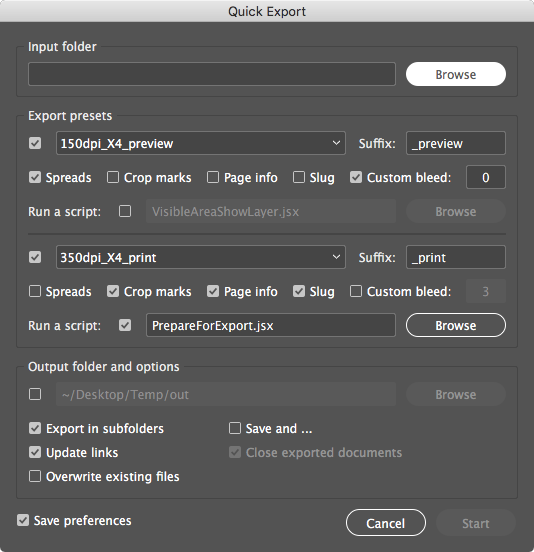
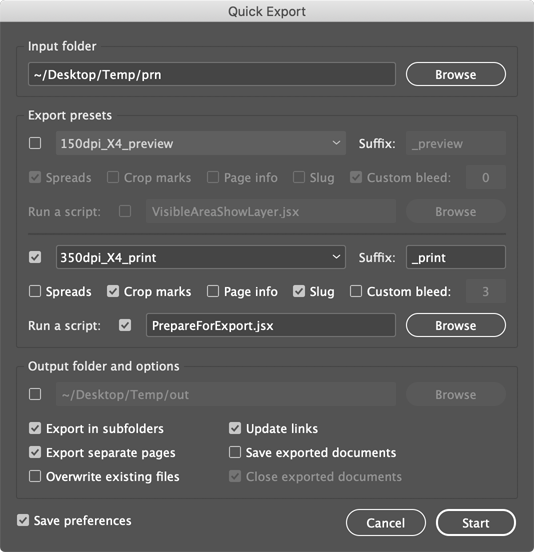
[feature] Add 'Export separate pages' option

diff --git a/export/QuickExport.jsx b/export/QuickExport.jsx
@@ -1,5 +1,5 @@
 /*
-	Quick export v2.7.6 (2021-06-26)
+	Quick export v2.8 (2021-06-28)
 	Paul Chiorean (jpeg@basement.ro)
 
 	Exports open .indd documents or a folder with several configurable PDF presets.
@@ -39,7 +39,6 @@ var old = {
 };
 app.scriptPreferences.measurementUnit = MeasurementUnits.MILLIMETERS;
 app.scriptPreferences.userInteractionLevel = UserInteractionLevels.INTERACT_WITH_ALERTS;
-app.pdfExportPreferences.pageRange = ""; // Reset page range
 app.pdfExportPreferences.viewPDF = false;
 const forbiddenFilenameChars = /[#%^{}\\<>*?\/$!'":@`|=]/g;
 const ADV = ScriptUI.environment.keyboardState.altKey;
@@ -86,8 +85,9 @@ var defaults = {
 		},
 		options: {
 			subfolders: true,
-			updatelinks: true,
+			split: false,
 			overwrite: false,
+			updatelinks: true,
 			save: true,
 			close: true,
 		},
@@ -99,14 +99,14 @@ var defaults = {
 // User interface
 var ui = new Window('dialog { alignChildren: "left", margins: 16, orientation: "column", spacing: 10, text: "Quick Export" }');
 ui.main = ui.add('group { margins: 0, orientation: "column", preferredSize: [ 500, -1 ], spacing: 10 }');
-// -- Folder mode
+// -- Input source
 if (folderMode) {
 	ui.input = ui.main.add('panel { alignChildren: "left", margins: [ 10, 15, 10, 10 ], orientation: "column", spacing: 10, text: "Input folder" }');
 		ui.input.source = ui.input.add('group { margins: 0, orientation: "row", spacing: 10 }');
 			ui.input.source.folder = ui.input.source.add('edittext { preferredSize: [ 368, 24 ], properties: { readonly: true } }');
 			ui.input.source.browse = ui.input.source.add('button { preferredSize: [ 100, 24 ], text: "Browse" }');
 };
-// -- Export presets / scripts
+// -- Export options
 ui.presets = ui.main.add('panel { alignChildren: "left", margins: [ 10, 15, 10, 10 ], orientation: "column", spacing: 10, text: "Export presets" }');
 	ui.preset1 = ui.presets.add('group { margins: 0, orientation: "row", spacing: 10 }');
 		ui.preset1.isOn = ui.preset1.add('checkbox { alignment: "bottom" }');
@@ -154,10 +154,11 @@ ui.output = ui.main.add('panel { alignChildren: "left", margins: [ 10, 15, 10, 1
 	ui.output.options = ui.output.add('group { alignChildren: "top", margins: [ 0, 5, 0, 0 ], orientation: "row", spacing: 0 }');
 		ui.output.opt1 = ui.output.options.add('group { alignChildren: "left", margins: 0, orientation: "column", preferredSize: [ 200, -1 ], spacing: 5 }');
 			ui.output.options.subfolders = ui.output.opt1.add('checkbox { helpTip: "Use \'suffix\' fields as subfolders", text: "Export in subfolders" }');
-			ui.output.options.updateLinks = ui.output.opt1.add('checkbox { text: "Update links" }');
-			ui.output.options.fileOverwrite = ui.output.opt1.add('checkbox { text: "Overwrite existing files" }');
+			ui.output.options.split = ui.output.opt1.add('checkbox { text: "Export separate pages" }');
+			ui.output.options.overwrite = ui.output.opt1.add('checkbox { text: "Overwrite existing files" }');
 		ui.output.opt2 = ui.output.options.add('group { alignChildren: "left", orientation: "column", margins: 0, spacing: 5 }');
-			ui.output.options.docSave = ui.output.opt2.add('checkbox { text: "Save and ..." }');
+			ui.output.options.updateLinks = ui.output.opt2.add('checkbox { text: "Update links" }');
+			ui.output.options.docSave = ui.output.opt2.add('checkbox { text: "Save exported documents" }');
 			ui.output.options.docClose = ui.output.opt2.add('checkbox { text: "Close exported documents" }');
 			ui.output.options.docClose.enabled = !folderMode;
 // -- Actions
@@ -172,7 +173,6 @@ if (ADV) {
 };
 ui.actions.add('button { preferredSize: [ 80, -1 ], properties: { name: "cancel" }, text: "Cancel" }');
 ui.actions.ok = ui.actions.add('button { preferredSize: [ 80, -1 ], properties: { name: "ok" }, text: "Start" }');
-if (!folderMode) ui.actions.ok.enabled = app.activeDocument.saved;
 // -- UI callback functions
 ui.preset1.isOn.onClick = function() {
 	ui.preset1.preset.enabled = ui.preset1.suffix.enabled = this.value;
@@ -181,7 +181,7 @@ ui.preset1.isOn.onClick = function() {
 	ui.preset1.bleedCustom.onClick();
 	ui.preset1.script.isOn.onClick();
 	if (folderMode) ui.actions.ok.enabled = (this.value || ui.preset2.isOn.value) && !!ui.input.source.path
-	else ui.actions.ok.enabled = app.activeDocument.saved && (this.value || ui.preset2.isOn.value);
+	else ui.actions.ok.enabled = (this.value || ui.preset2.isOn.value);
 };
 ui.preset1.bleedCustom.onClick = function() {
 	ui.preset1.bleedValue.enabled = this.value;
@@ -215,7 +215,7 @@ ui.preset2.isOn.onClick = function() {
 	ui.preset2.bleedCustom.onClick();
 	ui.preset2.script.isOn.onClick();
 	if (folderMode) ui.actions.ok.enabled = (this.value || ui.preset1.isOn.value) && !!ui.input.source.path
-	else ui.actions.ok.enabled = app.activeDocument.saved && (this.value || ui.preset1.isOn.value);
+	else ui.actions.ok.enabled = (this.value || ui.preset1.isOn.value);
 };
 ui.preset2.bleedCustom.onClick = function() {
 	ui.preset2.bleedValue.enabled = this.value;
@@ -307,7 +307,7 @@ if (folderMode) docs = ui.input.source.path.getFiles("*.indd")
 else docs = app.documents.everyItem().getElements();
 while (doc = docs.shift()) {
 	if (doc.saved && !doc.converted) names.push(doc.fullName)
-	else errors.push(doc.name + " has not been saved. Skipped.");
+	else errors.push(doc.name + " is not saved; skipped.");
 };
 if (names.length > 0) names.sort();
 var docs = [];
@@ -331,79 +331,47 @@ while (doc = docs.shift()) {
 		if (!ui.output.dest.path.exists) ui.output.dest.path.create();
 		baseFolder = WIN ? decodeURI(ui.output.dest.path.fsName) : decodeURI(ui.output.dest.path.fullName);
 	};
-	// Export profiles
+	// Check fonts
+	var usedFonts = doc.fonts.everyItem().getElements();
+	for (var f = 0; f < usedFonts.length; f++) {
+		if (usedFonts[f].status !== FontStatus.INSTALLED) {
+			errors.push(doc.name + ": Font '" + usedFonts[f].name.replace(/\t/g, " ") + "' is " +
+				String(usedFonts[f].status).toLowerCase().replace("_", " "));
+		};
+	};
+	// Update links
+	if (ui.output.options.updateLinks.value) {
+		for (var l = 0; l < doc.links.length; l++) {
+			switch (doc.links[l].status) {
+				case LinkStatus.LINK_OUT_OF_DATE:
+					doc.links[l].update(); break;
+				case LinkStatus.LINK_MISSING:
+					errors.push(doc.name + ": Link '" + doc.links[l].name + "' not found."); break;
+			};
+		};
+	};
+	// Export
 	for (var i = 1; i < 3; i++) {
 		var exp = ui["preset" + i];
 		if (!exp.isOn.value) continue;
 		var preset = app.pdfExportPresets.item(exp.preset.selection.text);
+		// Create subfolder
 		var suffix = !!exp.suffix.text ? ("_" + exp.suffix.text.replace(/^_/, "")) : "";
 		var subfolder = "";
 		if (ui.output.options.subfolders.value && !!suffix) {
 			subfolder = suffix.replace(/^_/, "");
 			if (!Folder(baseFolder + "/" + subfolder).exists) Folder(baseFolder + "/" + subfolder).create();
 		};
-		// Get unique PDF name
-		var pdfBaseName = decodeURI(doc.name).replace(/\.indd$/i, "") + suffix;
-		// if (forbiddenFilenameChars.test(pdfBaseName)) { // Sanitize filenames
-		// 	pdfBaseName = pdfBaseName.replace(forbiddenFilenameChars, "-");
-		// 	errors.push(doc.name + ": Sanitized output filename.");
-		// };
-		var pdfName = pdfBaseName + ".pdf";
-		var folder = baseFolder + (!!subfolder ? "/" + subfolder : "");
-		var file = folder + "/" + pdfName;
-		pdfBaseName = pdfBaseName.replace(/[\|\^$(.)\[\]{*+?}\\]/g, "\\$&"); // Escape regex tokens
-		var baseRE = RegExp("^" + pdfBaseName + (!!suffix ? "[ _-]*" : "[ _-]+") + "\\d+.*.pdf$", "i");
-		var indxRE = RegExp("^" + pdfBaseName + (!!suffix ? "[ _-]*" : "[ _-]+") +
-			"(\\d+)([ _-]*v *\\d*)?([ _-]*copy *\\d*)?([ _-]*v *\\d*)?$", "i");
-		var pdfFiles = Folder(folder).getFiles(function(f) {
-			if (!(f instanceof File) || !/\.pdf$/i.test(f)) return false;
-			return baseRE.test(decodeURI(f.name));
-		});
-		for (var j = 0, maxIndex = 0; j < pdfFiles.length; j++) { // Get max index
-			var n = indxRE.exec(decodeURI(pdfFiles[j].name).replace(/\.pdf$/i, ""));
-			if (!!n) maxIndex = Math.max(maxIndex, Number(n[1]));
-		};
-		if (ui.output.options.fileOverwrite.value) {
-			if (maxIndex != 0) file = file.replace(/\.pdf$/i, "") + (!!suffix ? "" : " ") + String(maxIndex) + ".pdf";
-		} else {
-			if (maxIndex == 0) {
-				if (File(file).exists) file = file.replace(/\.pdf$/i, "") + (!!suffix ? "" : " ") + "2.pdf";
-			} else {
-				maxIndex++;
-				file = file.replace(/\.pdf$/i, "") + (!!suffix ? "" : " ") + String(maxIndex) + ".pdf";
-			};
-		};
-		progressBar.update(counter, (baseFolder == decodeURI(doc.filePath) ? decodeURI(File(file).name) : file));
-		// Check fonts
-		var usedFonts = doc.fonts.everyItem().getElements();
-		for (var f = 0; f < usedFonts.length; f++) {
-			if (usedFonts[f].status !== FontStatus.INSTALLED) {
-				errors.push(doc.name + ": Font '" + usedFonts[f].name.replace(/\t/g, " ") + "' is " +
-					String(usedFonts[f].status).toLowerCase().replace("_", " "));
-			};
-		};
-		// Update links
-		for (var l = 0; l < doc.links.length; l++) {
-			switch (doc.links[l].status) {
-				case LinkStatus.LINK_OUT_OF_DATE:
-					if (ui.output.options.updateLinks.value) doc.links[l].update()
-					else errors.push(doc.name + ": Link '" + doc.links[l].name + "' is out of date.");
-					break;
-				case LinkStatus.LINK_MISSING:
-					errors.push(doc.name + ": Link '" + doc.links[l].name + "' not found.");
-					break;
-			};
-		};
 		// Run script
 		if (exp.script.enabled && exp.script.isOn.value && exp.script.path.exists) {
 			var ext = decodeURI(exp.script.path.fsName).substr(decodeURI(exp.script.path.fsName).lastIndexOf(".") + 1);
-			var scriptLanguage = (function(ext) {
+			var scriptLanguage = function(ext) {
 				if (WIN) {
 					return {
 						"js": ScriptLanguage.JAVASCRIPT,
 						"jsx": ScriptLanguage.JAVASCRIPT,
 						"jsxbin": ScriptLanguage.JAVASCRIPT,
-					}[ext]
+					}[ext];
 				} else {
 					return { "scpt": ScriptLanguage.APPLESCRIPT_LANGUAGE,
 						"js": ScriptLanguage.JAVASCRIPT,
@@ -411,35 +379,30 @@ while (doc = docs.shift()) {
 						"jsxbin": ScriptLanguage.JAVASCRIPT,
 					}[ext];
 				};
-			})(ext);
-			app.doScript(exp.script.path, scriptLanguage, undefined, UndoModes.ENTIRE_SCRIPT, "Run script");
+			};
+			app.doScript(exp.script.path, scriptLanguage(ext), undefined, UndoModes.ENTIRE_SCRIPT, "Run script");
 			app.scriptPreferences.measurementUnit = MeasurementUnits.MILLIMETERS;
 		};
 		// Export PDF
-		if (!ui.output.options.fileOverwrite.value && File(file).exists) {
-			alert("Attempted illegal overwrite.\nBetter quit now..."); exit() };
-		LoadPDFExportPrefs(preset);
-		app.pdfExportPreferences.exportReaderSpreads = exp.exportSpreads.value;
-		app.pdfExportPreferences.cropMarks = exp.cropMarks.value;
-		app.pdfExportPreferences.pageInformationMarks = exp.pageInfo.value;
-		app.pdfExportPreferences.includeSlugWithPDF = exp.slug.value;
-		app.pdfExportPreferences.useDocumentBleedWithPDF = !exp.bleedCustom.value;
-		if (app.pdfExportPreferences.useDocumentBleedWithPDF) {
-			app.pdfExportPreferences.pageMarksOffset = Math.min(Math.max(
-				doc.documentPreferences.properties.documentBleedTopOffset,
-				doc.documentPreferences.properties.documentBleedInsideOrLeftOffset,
-				doc.documentPreferences.properties.documentBleedBottomOffset,
-				doc.documentPreferences.properties.documentBleedOutsideOrRightOffset
-			), UnitValue("72 pt").as("mm"));
+		if (ui.output.options.split.value) {
+			var t = exp.exportSpreads.value ? doc.spreads : doc.pages;
+			for (var p = 0; p < t.length; p++) {
+				var baseName = decodeURI(doc.name).replace(/\.indd$/i, "");
+				var fileSufx = RegExp("([ ._-])([a-zA-Z]{" + t.length + "})$", "i").exec(baseName);
+				baseName = fileSufx ?
+					baseName.replace(RegExp(fileSufx[0] + "$"), "") + fileSufx[1] + fileSufx[2][p] + suffix :
+					baseName + "_" + ZeroPad(p+1, String(t.length).length) + suffix;
+				var fn = UniqueName(baseName);
+				progressBar.update(counter, (baseFolder == decodeURI(doc.filePath) ? decodeURI(File(fn).name) : fn));
+				ExportPDF(fn, preset,
+					(exp.exportSpreads.value ? (t[p].pages[0].name + "-" + t[p].pages[-1].name) : t[p].name));
+			};
 		} else {
-			app.pdfExportPreferences.bleedTop =
-			app.pdfExportPreferences.bleedBottom =
-			app.pdfExportPreferences.bleedInside =
-			app.pdfExportPreferences.bleedOutside = Number(exp.bleedValue.text);
-			app.pdfExportPreferences.pageMarksOffset =
-				Math.min(app.pdfExportPreferences.bleedTop, UnitValue("72 pt").as("mm"));
+			var baseName = decodeURI(doc.name).replace(/\.indd$/i, "") + suffix;
+			var fn = UniqueName(baseName);
+			progressBar.update(counter, (baseFolder == decodeURI(doc.filePath) ? decodeURI(File(fn).name) : fn));
+			ExportPDF(fn, preset, PageRange.ALL_PAGES);
 		};
-		doc.exportFile(ExportFormat.PDF_TYPE, File(file), false);
 		counter++;
 	};
 	// Restore measurement units
@@ -458,13 +421,72 @@ app.pdfExportPreferences.viewPDF = old.viewPDF;
 if (errors.length > 0) Report(errors, "Errors", false, true);
 
 
+// Functions
+// --
+function ExportPDF(fn, preset, range) {
+	for (var key in preset) try { app.pdfExportPreferences[key] = preset[key] } catch (e) {};
+	app.pdfExportPreferences.pageRange = range;
+	app.pdfExportPreferences.exportReaderSpreads = exp.exportSpreads.value;
+	app.pdfExportPreferences.cropMarks = exp.cropMarks.value;
+	app.pdfExportPreferences.pageInformationMarks = exp.pageInfo.value;
+	app.pdfExportPreferences.includeSlugWithPDF = exp.slug.value;
+	app.pdfExportPreferences.useDocumentBleedWithPDF = !exp.bleedCustom.value;
+	if (app.pdfExportPreferences.useDocumentBleedWithPDF) {
+		app.pdfExportPreferences.pageMarksOffset = Math.min(Math.max(
+			doc.documentPreferences.properties.documentBleedTopOffset,
+			doc.documentPreferences.properties.documentBleedInsideOrLeftOffset,
+			doc.documentPreferences.properties.documentBleedBottomOffset,
+			doc.documentPreferences.properties.documentBleedOutsideOrRightOffset
+		), UnitValue("72 pt").as("mm"));
+	} else {
+		app.pdfExportPreferences.bleedTop =
+		app.pdfExportPreferences.bleedBottom =
+		app.pdfExportPreferences.bleedInside =
+		app.pdfExportPreferences.bleedOutside = Number(exp.bleedValue.text);
+		app.pdfExportPreferences.pageMarksOffset =
+			Math.min(app.pdfExportPreferences.bleedTop, UnitValue("72 pt").as("mm"));
+	};
+	doc.exportFile(ExportFormat.PDF_TYPE, File(fn), false);
+};
+
 function TruncatePath(/*string*/path, maxLength) {
 	if (path.length > maxLength + 3) path = "..." + path.slice(- maxLength + 3);
 	return path;
 };
 
-function LoadPDFExportPrefs(preset) {
-	for (var key in preset) try { app.pdfExportPreferences[key] = preset[key] } catch (e) {};
+function UniqueName(name) {
+	var pdfName = name + ".pdf";
+	var folder = baseFolder + (!!subfolder ? "/" + subfolder : "");
+	var fn = folder + "/" + pdfName;
+	name = name.replace(/[\|\^$(.)\[\]{*+?}\\]/g, "\\$&"); // Escape regex tokens
+	var baseRE = RegExp("^" + name + (!!suffix ? "[ _-]*" : "[ _-]+") + "\\d+.*.pdf$", "i");
+	var indxRE = RegExp("^" + name + (!!suffix ? "[ _-]*" : "[ _-]+") +
+		"(\\d+)([ _-]*v *\\d*)?([ _-]*copy *\\d*)?([ _-]*v *\\d*)?$", "i");
+	var pdfFiles = Folder(folder).getFiles(function(f) {
+		if (!(f instanceof File) || !/\.pdf$/i.test(f)) return false;
+		return baseRE.test(decodeURI(f.name));
+	});
+	for (var j = 0, maxIndex = 0; j < pdfFiles.length; j++) { // Get max index
+		var n = indxRE.exec(decodeURI(pdfFiles[j].name).replace(/\.pdf$/i, ""));
+		if (!!n) maxIndex = Math.max(maxIndex, Number(n[1]));
+	};
+	if (ui.output.options.overwrite.value) {
+		if (maxIndex != 0) fn = fn.replace(/\.pdf$/i, "") + (!!suffix ? "" : " ") + String(maxIndex) + ".pdf";
+	} else {
+		if (maxIndex == 0) {
+			if (File(fn).exists) fn = fn.replace(/\.pdf$/i, "") + (!!suffix ? "" : " ") + "2.pdf";
+		} else {
+			maxIndex++;
+			fn = fn.replace(/\.pdf$/i, "") + (!!suffix ? "" : " ") + String(maxIndex) + ".pdf";
+		};
+	};
+	return fn;
+};
+
+function ZeroPad(number, digits) {
+	number = number.toString();
+	while (number.length < digits) number = "0" + number;
+	return number;
 };
 
 function ReadSettings() {
@@ -514,8 +536,9 @@ function ReadSettings() {
 	};
 	ui.output.dest.isOn.value = !!ui.output.dest.path && settings.output.dest.active;
 	ui.output.options.subfolders.value = settings.output.options.subfolders;
+	ui.output.options.split.value = settings.output.options.split;
+	ui.output.options.overwrite.value = false; // settings.output.options.overwrite;
 	ui.output.options.updateLinks.value = settings.output.options.updatelinks;
-	ui.output.options.fileOverwrite.value = false; // settings.output.options.overwrite;
 	ui.output.options.docSave.value = settings.output.options.save;
 	ui.output.options.docClose.value = folderMode ? true : settings.output.options.close;
 	ui.preset1.isOn.onClick();
@@ -586,8 +609,9 @@ function SaveSettings() {
 			},
 			options: {
 				subfolders: ui.output.options.subfolders.value,
+				split: ui.output.options.split.value,
+				overwrite: false, // ui.output.options.overwrite.value,
 				updatelinks: ui.output.options.updateLinks.value,
-				overwrite: false, // ui.output.options.fileOverwrite.value,
 				save: ui.output.options.docSave.value,
 				close: ui.output.options.docClose.value,
 			},
